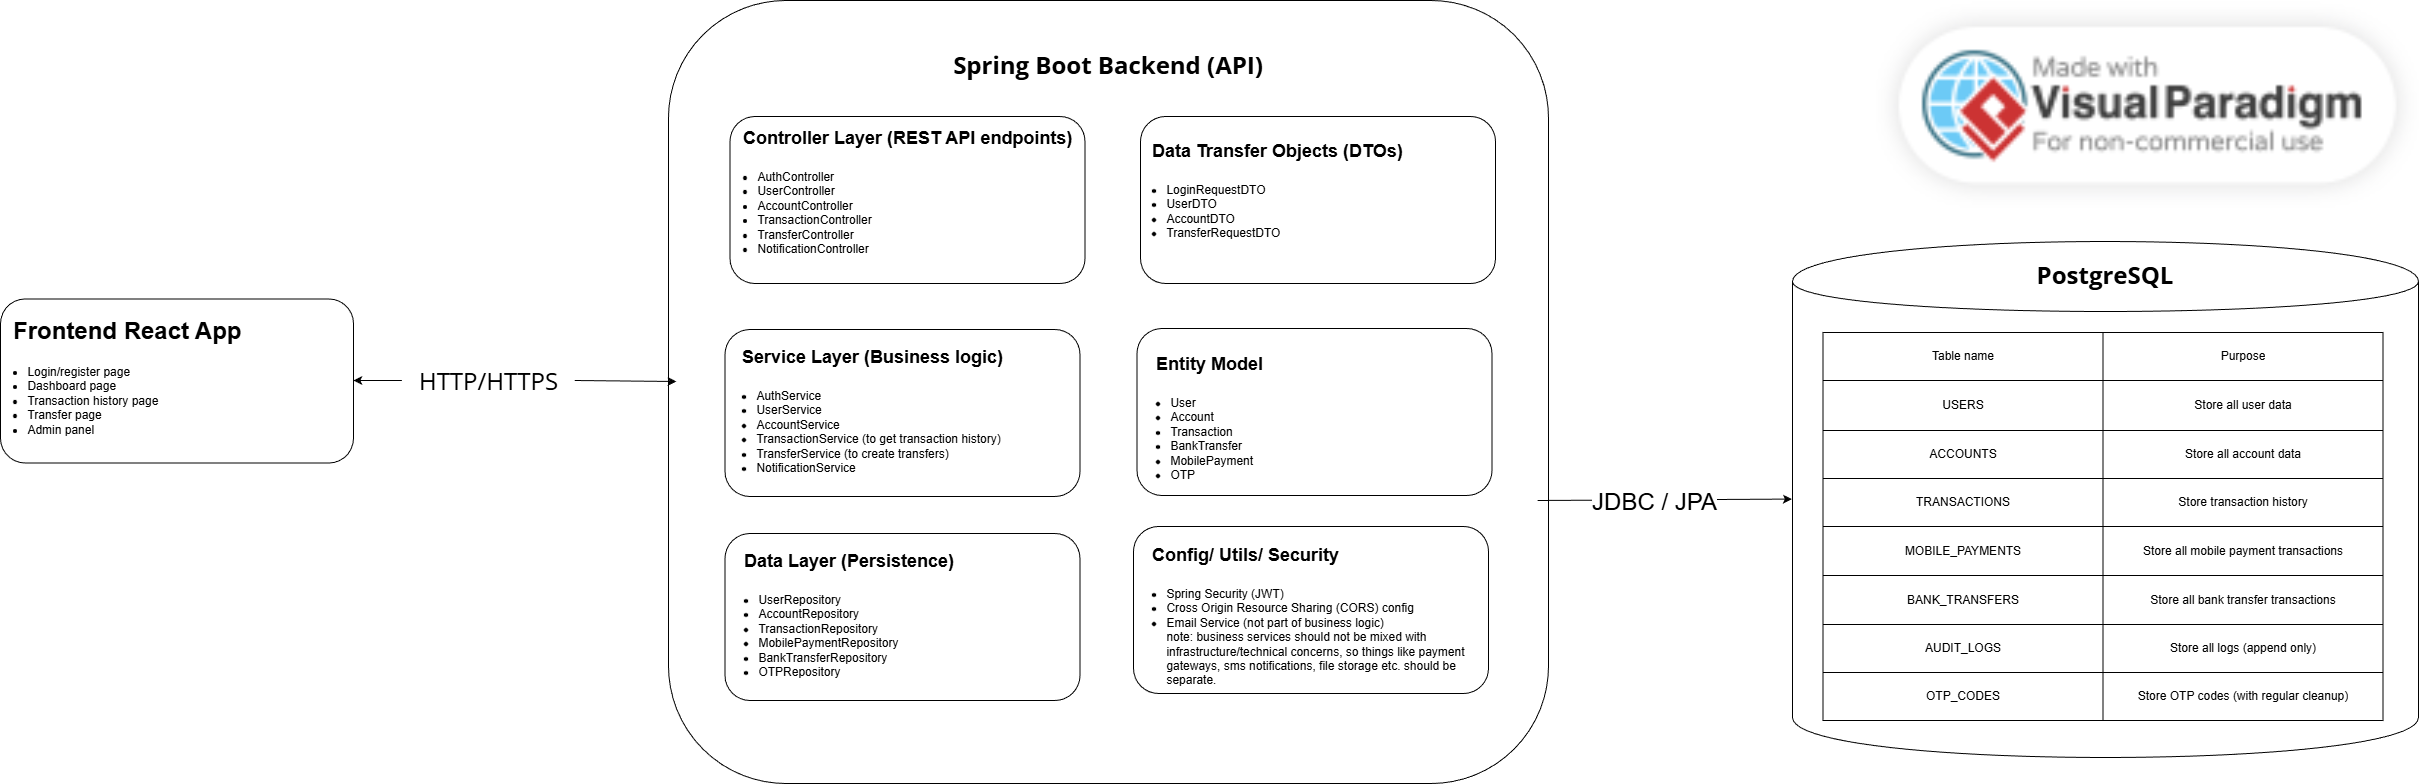
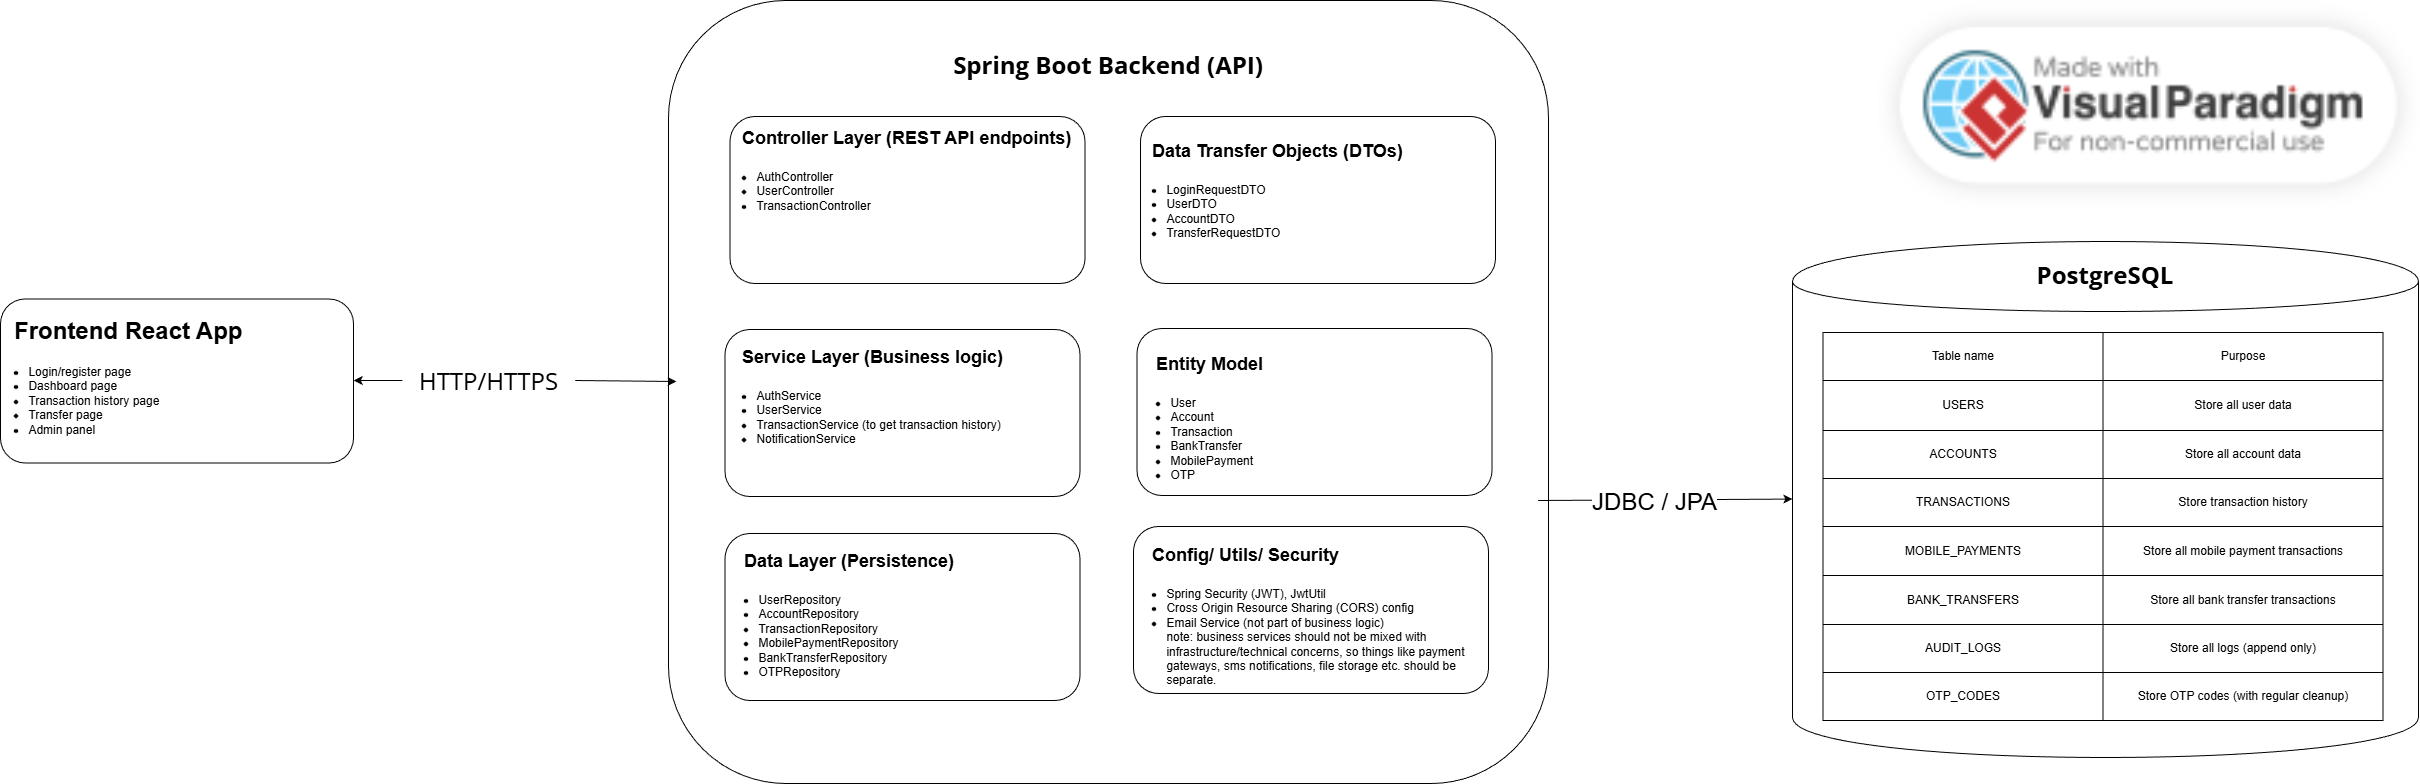
add diagrams

diff --git a/docs/SDD.md b/docs/SDD.md
@@ -99,14 +99,42 @@ Controller (DTO objects are used) -> Service (Converts DTO to entity) -> Reposit
 
 * DTO: Objects for API communication (to avoid exposing entities directly).
 
-TODO
-## 4.2 Class Diagram
+## 4.2 Component Responsibilities
+
+* AuthController: endpoints related to funciontality that requires verification, such as logging in,changing of password, creating a user etc.
+
+* UserController: endpoints for all user related functionality such as updating non-sensitive details and opening new accounts. 
+
+* TransactionController: endpoints related to viewing transaction history and creating payments.
+
+* AuthService: controls access to OTPRepository
+
+* UserService: controls access to UserRepository, AccountRepository
+
+* TransactionService: controls access to TransactionRepository, BankTransferRepository, MobilePaymentRepository
+
+* NotificationService: responsible for the logic behind all kinds of notifications including OTP sending and trasaction confirmation.
+
+
+## 4.3 Class Diagram
 ![Class Diagram](./images/ClassDiagram.png)
 
-TODO: money transfer, login/register flows.
-## 4.3 Sequence Diagram 
+## 4.4 Sequence Diagrams
 
-## 4.4 Notes
+* User registration flow
+
+
+![Registration Sequence Diagram](./images/RegisterSequenceDiagram.png)
+
+* User login flow
+
+![Login Sequence Diagram](./images/LoginSequenceDiagram.png)
+
+* Transaction flow
+
+![Transaction Sequence Diagram](./images/TransferSequenceDiagram.png)
+
+## 4.5 Notes
 TODO: Use Swagger to automatically generate frontend types that match DTOs
 
 # 5. API Design
@@ -115,22 +143,24 @@ TODO: Use Swagger to automatically generate frontend types that match DTOs
 | Endpoint                        | Method | Request                          | Response                | Notes                     |
 |--------------------------------|--------|---------------------------------|-------------------------|---------------------------|
 | `/api/v1/auth/register`        | POST   | `{username, email, password}`  | 201 Created / Error    | Creates new user         |
-| `/api/v1/auth/login`           | POST   | `{username, password}`         | 200 OK + JWT / 401     | Returns JWT              |
+| `/api/v1/auth/login`           | POST   | `{username/email, password}`         | 200 OK + JWT / 401     | Returns JWT              |
 | `/api/v1/auth/forgot-password` | POST   | `{email}`                      | 200 OK                 | Sends reset email        |
 | `/api/v1/auth/reset-password`  | POST   | `{token, oldPassword, newPassword}`         | 200 OK / Error         | Updates password         |
 
-## 5.2 Accounts
-| Endpoint                  | Method | Request | Response | Notes                |
-|---------------------------|--------|---------|----------|-----------------------|
-| `/api/v1/accounts`       | GET    | JWT     | List     | Fetch user accounts  |
-| `/api/v1/accounts/{id}`  | GET    | JWT     | Account  | Fetch single account |
+## 5.2 User
+| Endpoint                        | Method | Request       | Response | Notes                          |
+|--------------------------------|--------|--------------|----------|--------------------------------|
+| `/api/v1/user/accounts`        | GET    | JWT          | List     | Fetch user accounts           |
+| `/api/v1/user/accounts/{id}`   | GET    | JWT          | Account  | Fetch single account          |
+| `/api/v1/user`            | PUT    | JWT + JSON   | User     | Update user details (e.g., name, email) |
+
 
 ## 5.3 Transactions
 | Endpoint                  | Method | Request                                   | Response            | Notes                        |
 |---------------------------|--------|-------------------------------------------|---------------------|-----------------------------|
 | `/api/v1/transactions`   | GET    | JWT                                       | List               | User’s transaction history |
-| `/api/v1/transfers/bank`      | POST   | `{fromAccountId, toAccountId, amount}`    | Transaction status | Initiates bank transfer         |
-| `/api/v1/transfers/mobile`      | POST   | `{fromAccountId, toMobileNum, amount}`    | Transaction status | Initiates mobile payment         |
+| `/api/v1/transactions/bank`      | POST   | `{fromAccountId, toAccountId, amount}`    | Transaction status | Initiates bank transfer         |
+| `/api/v1/transactions/mobile`      | POST   | `{fromAccountId, toMobileNum, amount}`    | Transaction status | Initiates mobile payment         |
 
 ## 5.4 Notes
 * All endpoints requie JWT authentication except registration and login.
